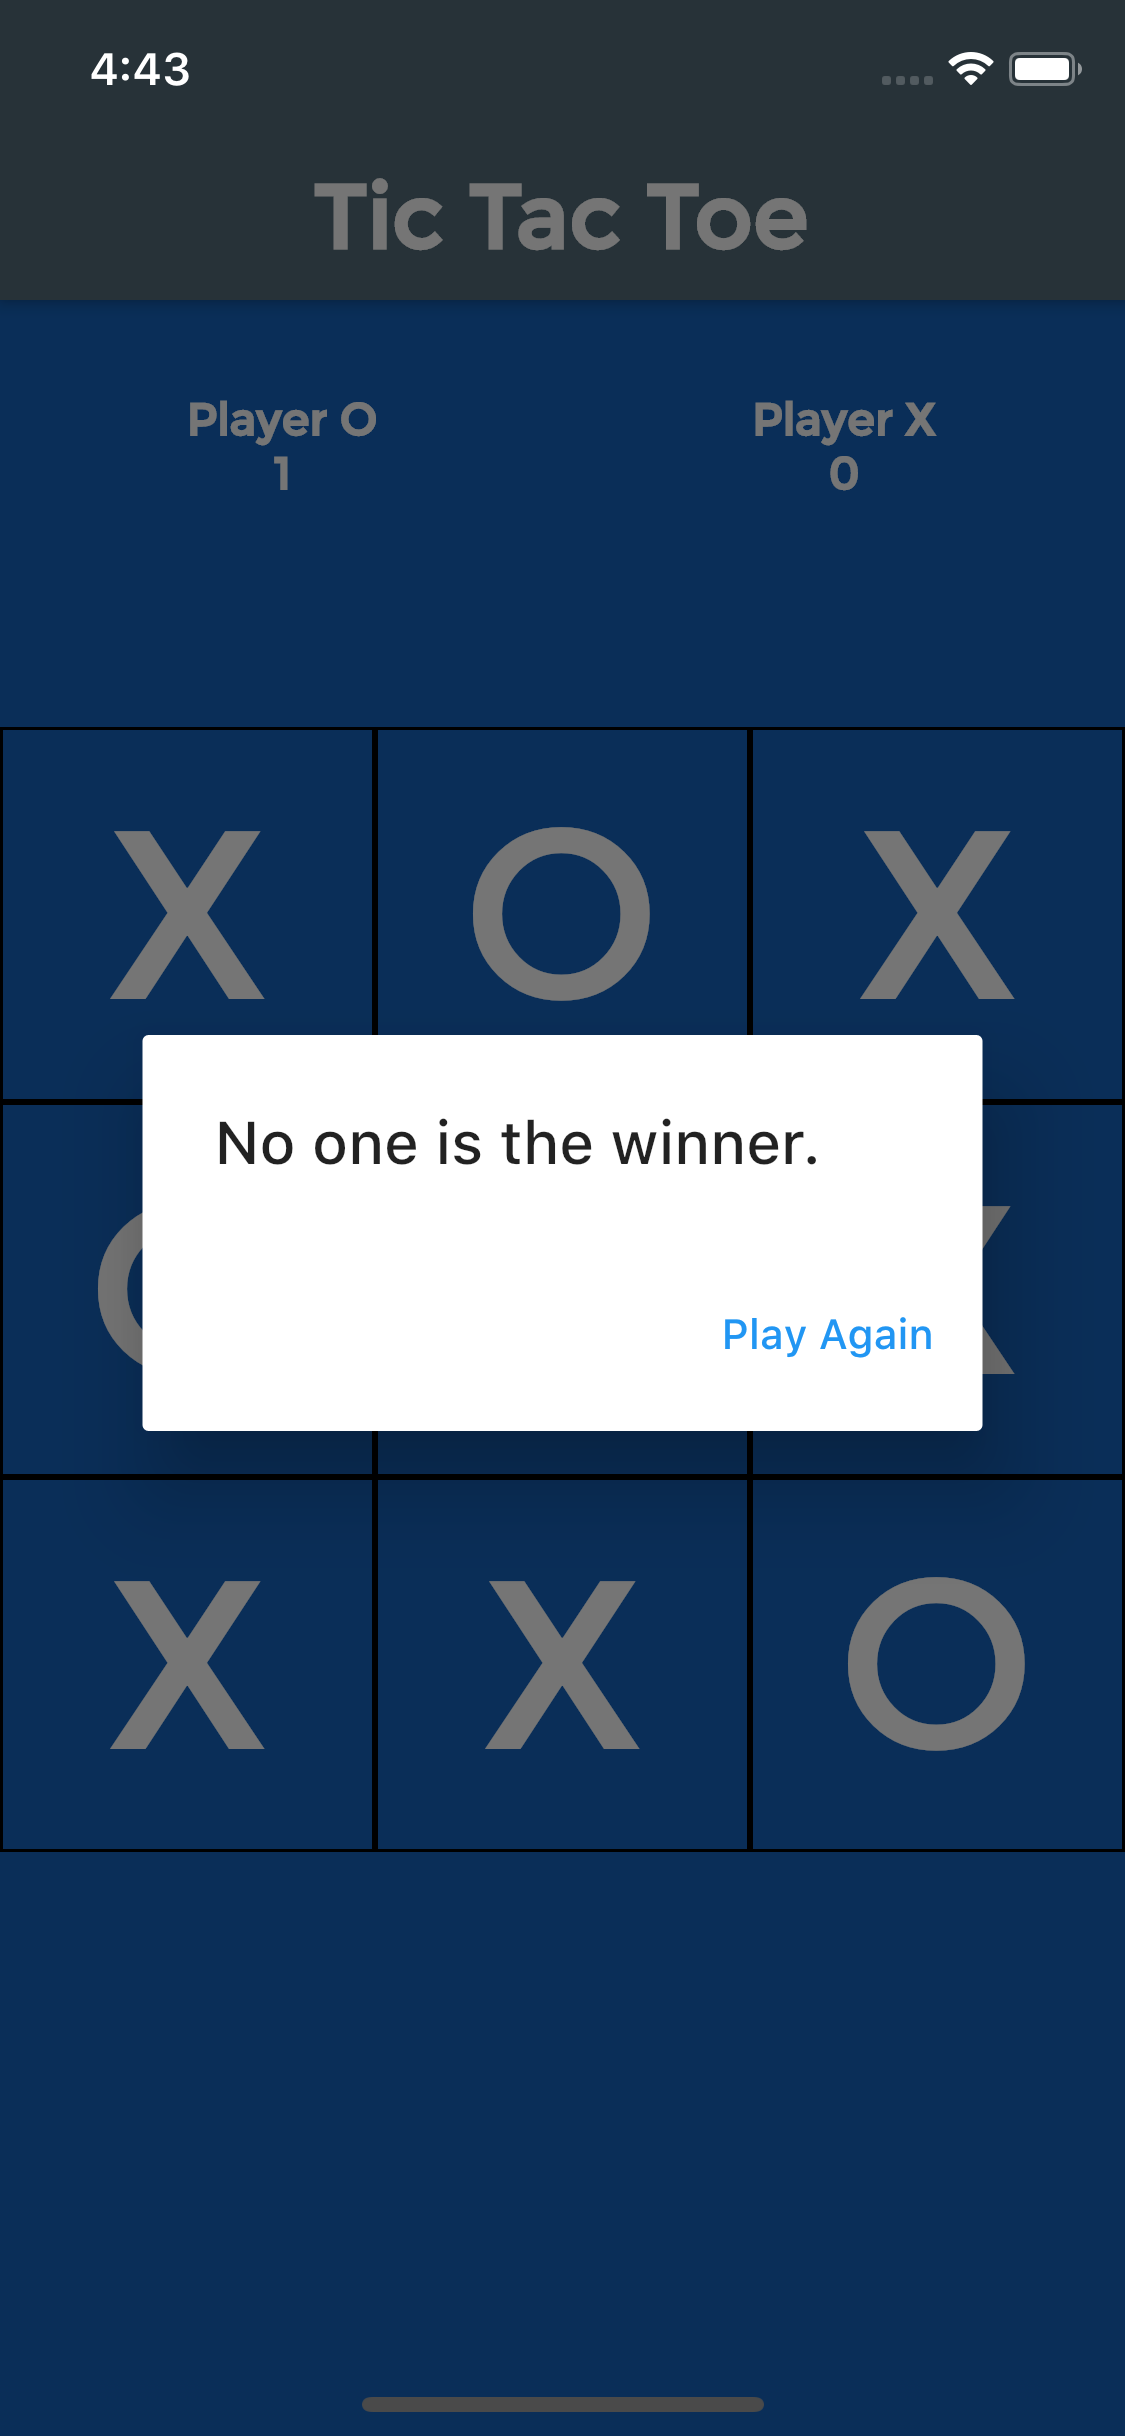
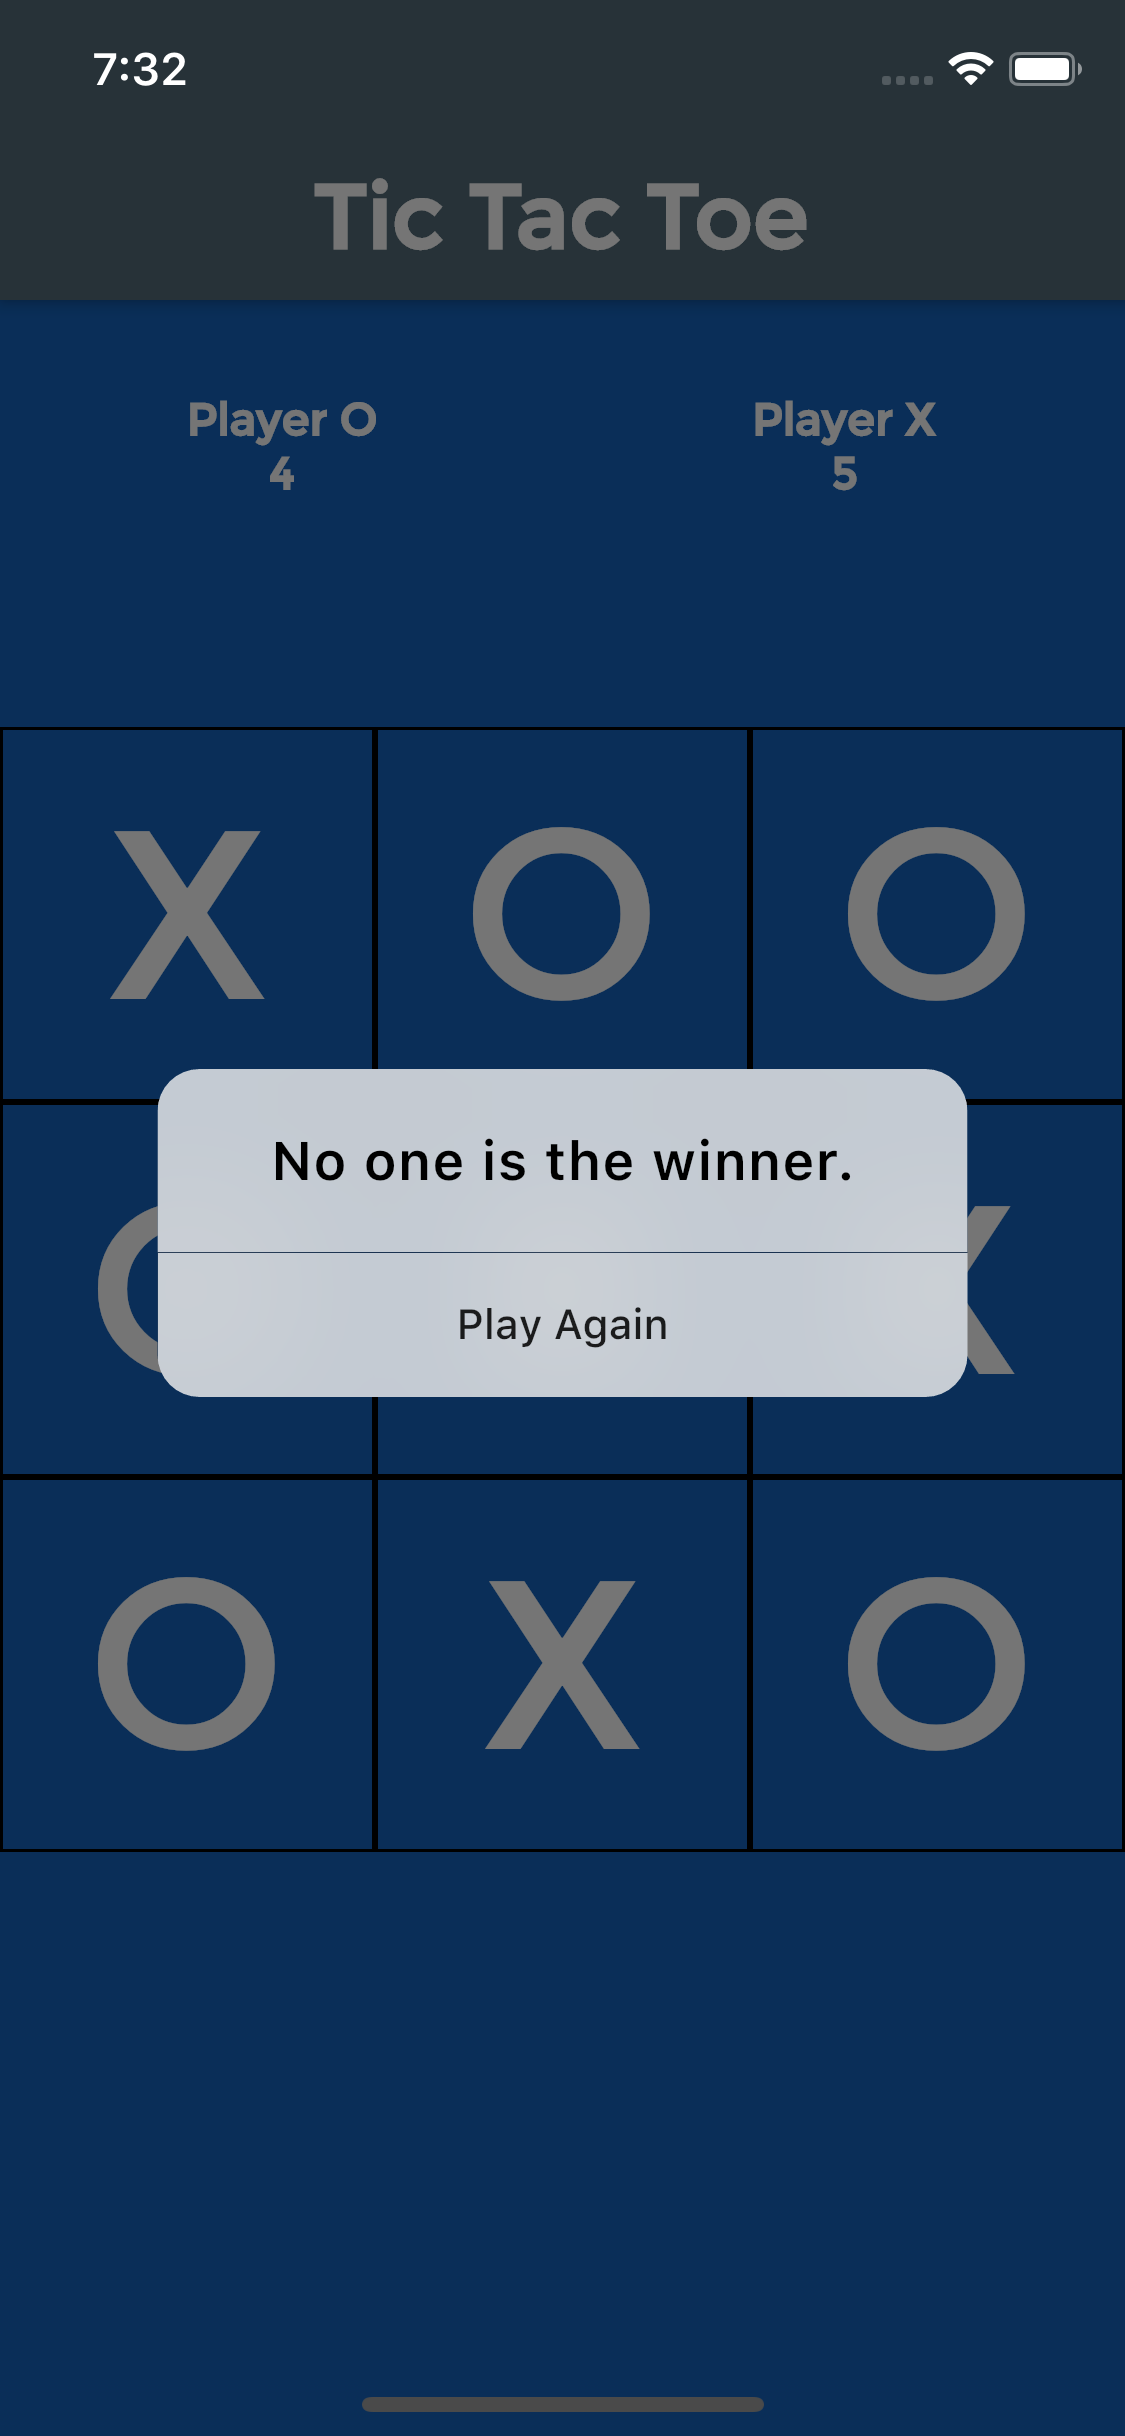
cupertino alertdisplay

Changed region(s): [[0.1244, 0.312, 0.9333, 0.5928], [0.0933, 0.624, 0.2489, 0.7176], [0.1244, 0.0, 0.1556, 0.0312]]

diff --git a/lib/main.dart b/lib/main.dart
@@ -1,3 +1,4 @@
+import 'package:flutter/cupertino.dart';
 import 'package:flutter/material.dart';
 
 //main function is starting point for all flutter apps
@@ -166,7 +167,7 @@ class _HomePageState extends State<HomePage> {
         barrierDismissible: false,
         context: context,
         builder: (BuildContext context){
-          return AlertDialog(
+          return CupertinoAlertDialog(
             title: Text(answer+' is the winner.'),
             actions: <Widget>[
               FlatButton(
